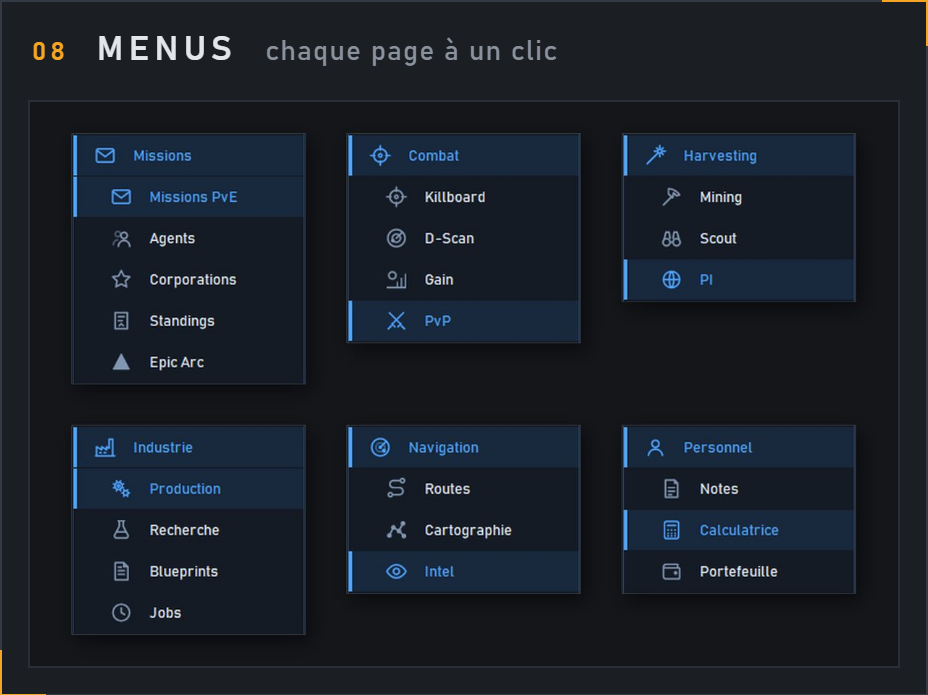
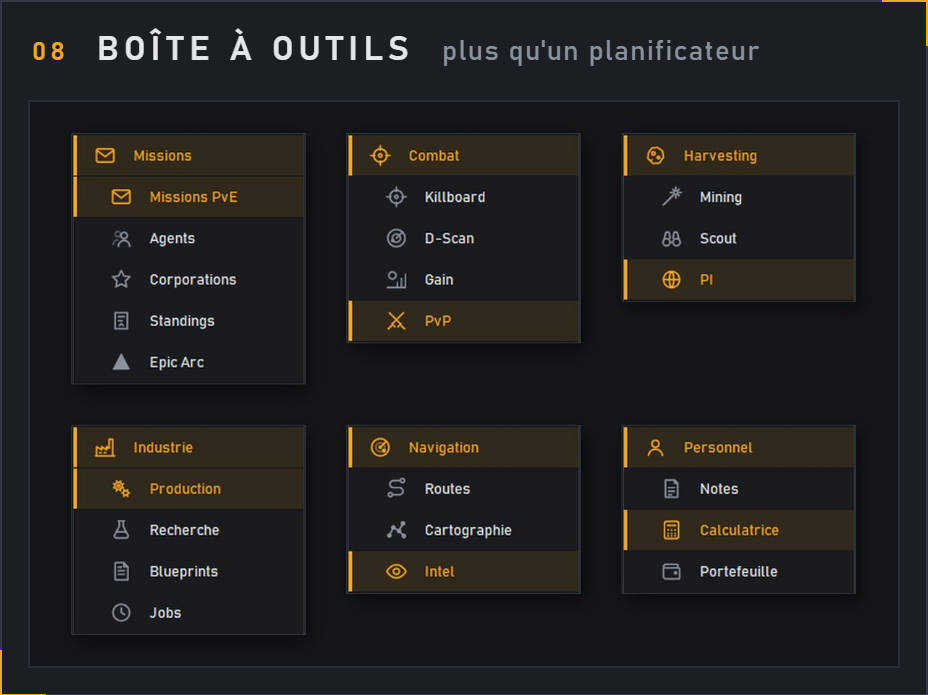
docs: vitrine en Ambre, carte « Boîte à outils »

diff --git a/README.md b/README.md
@@ -40,8 +40,8 @@ Buy and sell orders in every station, your <strong>rank</strong> and the gap to 
 <tr>
 <td width="50%" valign="top"><img src="assets/en/07.png" width="100%" alt="Mining"><br>
 Value mined per day, by ore and by character, priced at Jita buy, Jita sell or refined, with the log, campaigns and moons one tab away.</td>
-<td width="50%" valign="top"><img src="assets/en/08.png" width="100%" alt="Menus"><br>
-Six menus group the pages the dashboard never shows: <strong>Killboard, D-Scan, Scout, PI, routes, intel, calculator</strong> and more.</td>
+<td width="50%" valign="top"><img src="assets/en/08.png" width="100%" alt="Toolbox"><br>
+A multi-tool for the whole game: <strong>D-Scan, killboard, Scout, planetary interaction, routes and mapping, Intel, industry jobs, standings, Epic Arcs, notes, calculator and wallet</strong>. All of it is listed below.</td>
 </tr>
 <tr>
 <td width="50%" valign="top"><img src="assets/en/09.png" width="100%" alt="Themes"><br>
@@ -102,9 +102,11 @@ Read EveMirage in one language and the game's items in another: <strong>two inde
 </ul></td>
 </tr>
 <tr>
-<td width="50%" valign="top"><h3>Communication</h3>
+<td width="50%" valign="top"><h3>Communication & tools</h3>
 <ul>
 <li>EVE mail, read and written from EveMirage</li>
+<li>D-Scan, routes, mapping, Intel</li>
+<li>Notes, calculator, wallet</li>
 </ul></td>
 <td width="50%" valign="top"><h3>Everyday</h3>
 <ul>
